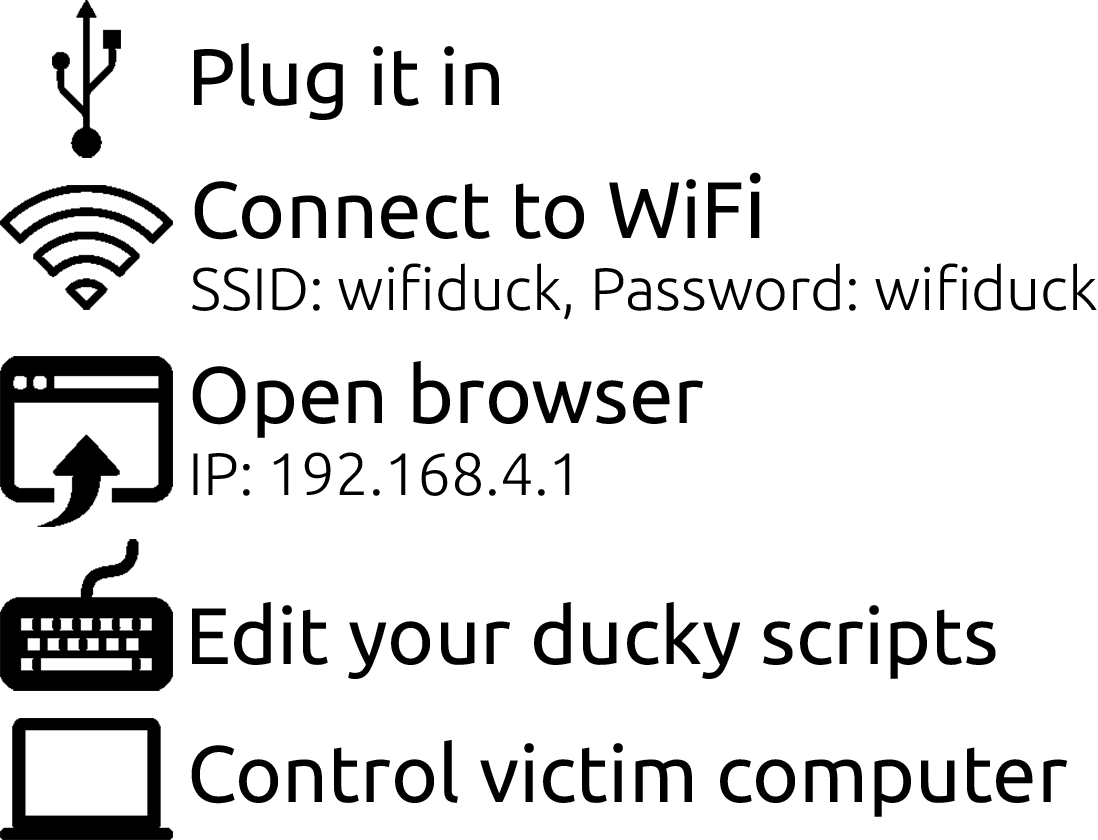
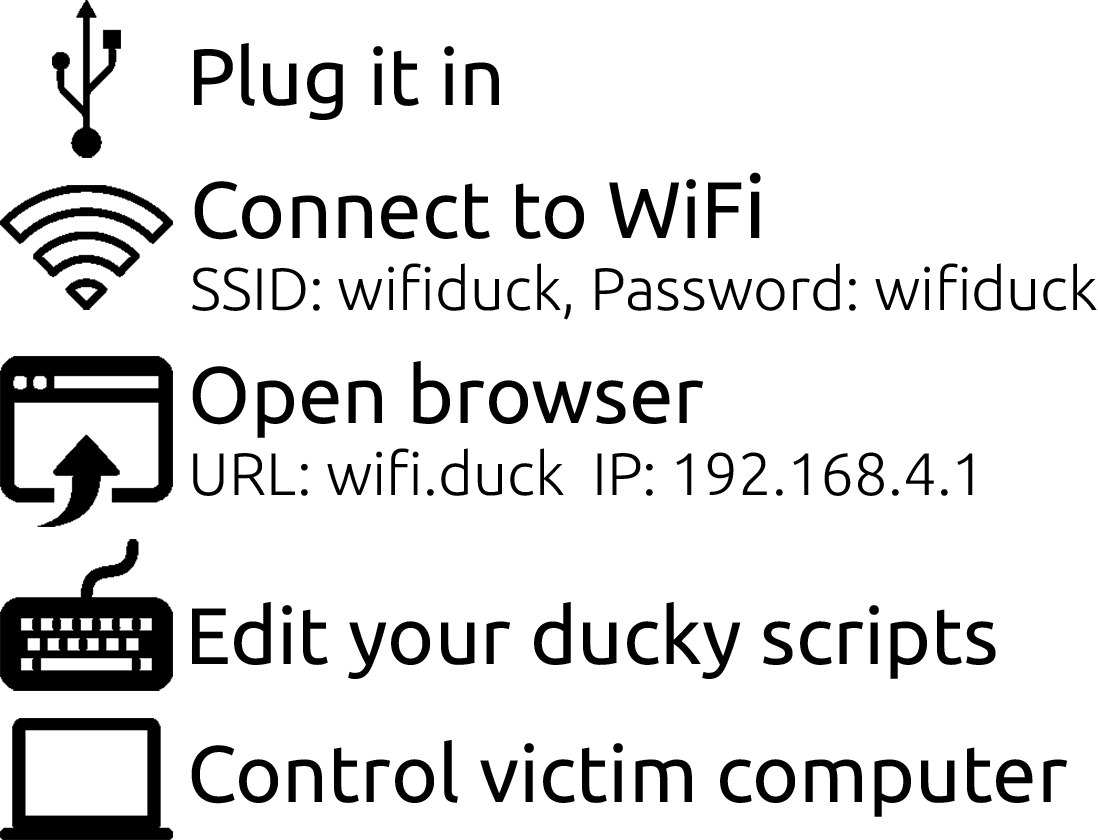
URL wifi.duck as alternative to 192.168.4.1

Changed region(s): [[0.1548, 0.5262, 0.5883, 0.5881], [0.6193, 0.5262, 0.898, 0.5881]]

diff --git a/esp_duck/webserver.cpp b/esp_duck/webserver.cpp
@@ -8,6 +8,7 @@
 
 #include <ESP8266WiFi.h>
 #include <ESP8266mDNS.h>
+#include <DNSServer.h>
 #include <ArduinoOTA.h>
 #include <ESPAsyncTCP.h>
 #include <ESPAsyncWebServer.h>
@@ -34,9 +35,9 @@ namespace webserver {
     AsyncWebSocket   ws("/ws");
     AsyncEventSource events("/events");
 
-    const char* host_name = "wifiduck";
-
     AsyncWebSocketClient* currentClient { nullptr };
+
+    DNSServer dnsServer;
 
     bool reboot = false;
 
@@ -79,7 +80,8 @@ namespace webserver {
     // ===== PUBLIC ===== //
     void begin() {
         // Access Point
-        WiFi.hostname(host_name);
+        WiFi.hostname(HOSTNAME);
+
         // WiFi.mode(WIFI_AP_STA);
         WiFi.softAP(settings::getSSID(), settings::getPassword(), settings::getChannelNum());
         debugf("Started Access Point \"%s\":\"%s\"\n", settings::getSSID(), settings::getPassword());
@@ -114,7 +116,7 @@ namespace webserver {
             else if (error == OTA_RECEIVE_ERROR) events.send("Recieve Failed", "ota");
             else if (error == OTA_END_ERROR) events.send("End Failed", "ota");
         });
-        ArduinoOTA.setHostname(host_name);
+        ArduinoOTA.setHostname(HOSTNAME);
         ArduinoOTA.begin();
 
         events.onConnect([](AsyncEventSourceClient* client) {
@@ -155,6 +157,8 @@ namespace webserver {
 
         MDNS.addService("http", "tcp", 80);
 
+        dnsServer.start(53, URL, IPAddress(192, 168, 4, 1));
+
         // Websocket
         ws.onEvent(wsEvent);
         server.addHandler(&ws);
@@ -167,6 +171,7 @@ namespace webserver {
     void update() {
         ArduinoOTA.handle();
         if (reboot) ESP.restart();
+        dnsServer.processNextRequest();
     }
 
     void send(const char* str) {

diff --git a/esp_duck/config.h b/esp_duck/config.h
@@ -40,6 +40,9 @@
 #define WIFI_PASSWORD "wifiduck"
 #define WIFI_CHANNEL "1"
 
+#define HOSTNAME "wifiduck"
+#define URL "wifi.duck"
+
 /*! ========== Safty checks ========== */
 #if !defined(ENABLE_I2C) && !defined(ENABLE_SERIAL)
   #define ENABLE_I2C
